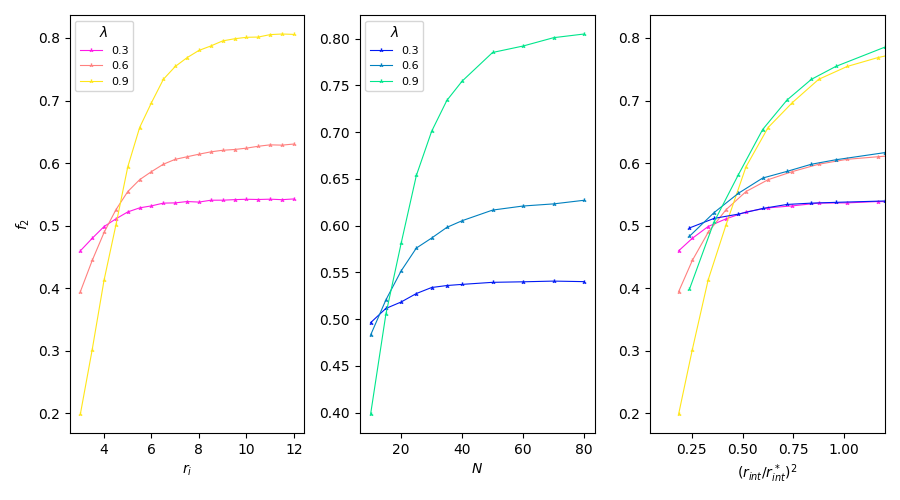
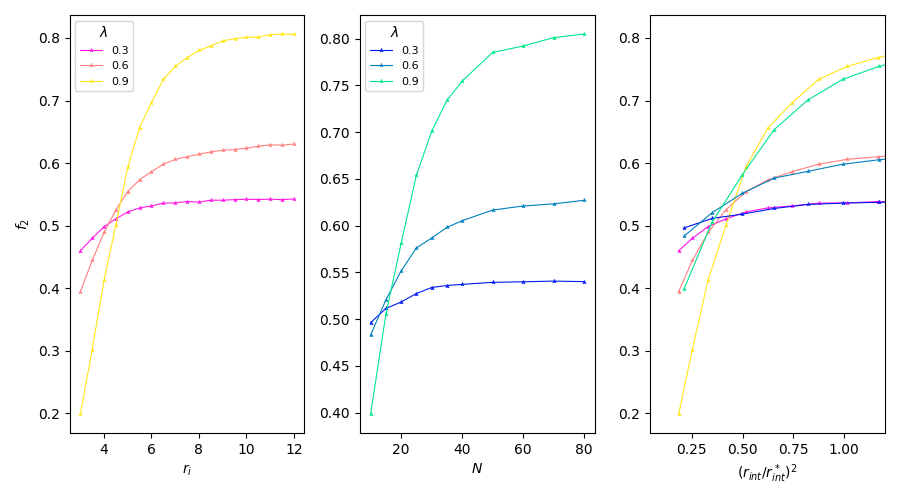
work 10 may

diff --git a/sim_some_params_frozen/sim_results_Nbots_vs_interac_r.py b/sim_some_params_frozen/sim_results_Nbots_vs_interac_r.py
@@ -63,7 +63,8 @@ for l,lcolor in zip(lambs,lambs_colors_N):
     # ax[2].plot(np.array(Ns)*(interac_r/(arena_r*perc_r))**2, f2_dif_N, color=lcolor, marker='2', markersize=3, lw=0.8)
     # ax[2].plot((interac_r/np.array(perc_rs))**2, f2_dif_N, color=lcolor, marker='2', markersize=3, lw=0.8)
     # ax[2].plot((interac_r/(62.067*np.array(Ns)**(-0.633)))**2, f2_dif_N, color=lcolor, marker='2', markersize=3, lw=0.8)
-    ax[2].plot((interac_r/(42*np.array(Ns)**(-0.5)))**2, f2_dif_N, color=lcolor, marker='2', markersize=3, lw=0.8)
+    # ax[2].plot((interac_r/(42*np.array(Ns)**(-0.5)))**2, f2_dif_N, color=lcolor, marker='2', markersize=3, lw=0.8)
+    ax[2].plot((interac_r/(58.11*np.array(Ns)**(-0.615)))**2, f2_dif_N, color=lcolor, marker='2', markersize=3, lw=0.8)
     dc = list(np.array(Ns)*(interac_r/(arena_r*perc_r))**2)
     lambsdf.extend([l]*len(Ns)), Nsdf.extend(Ns), f1df.extend(f1_dif_N), f2df.extend(f2_dif_N), dcdf.extend(dc)
 
